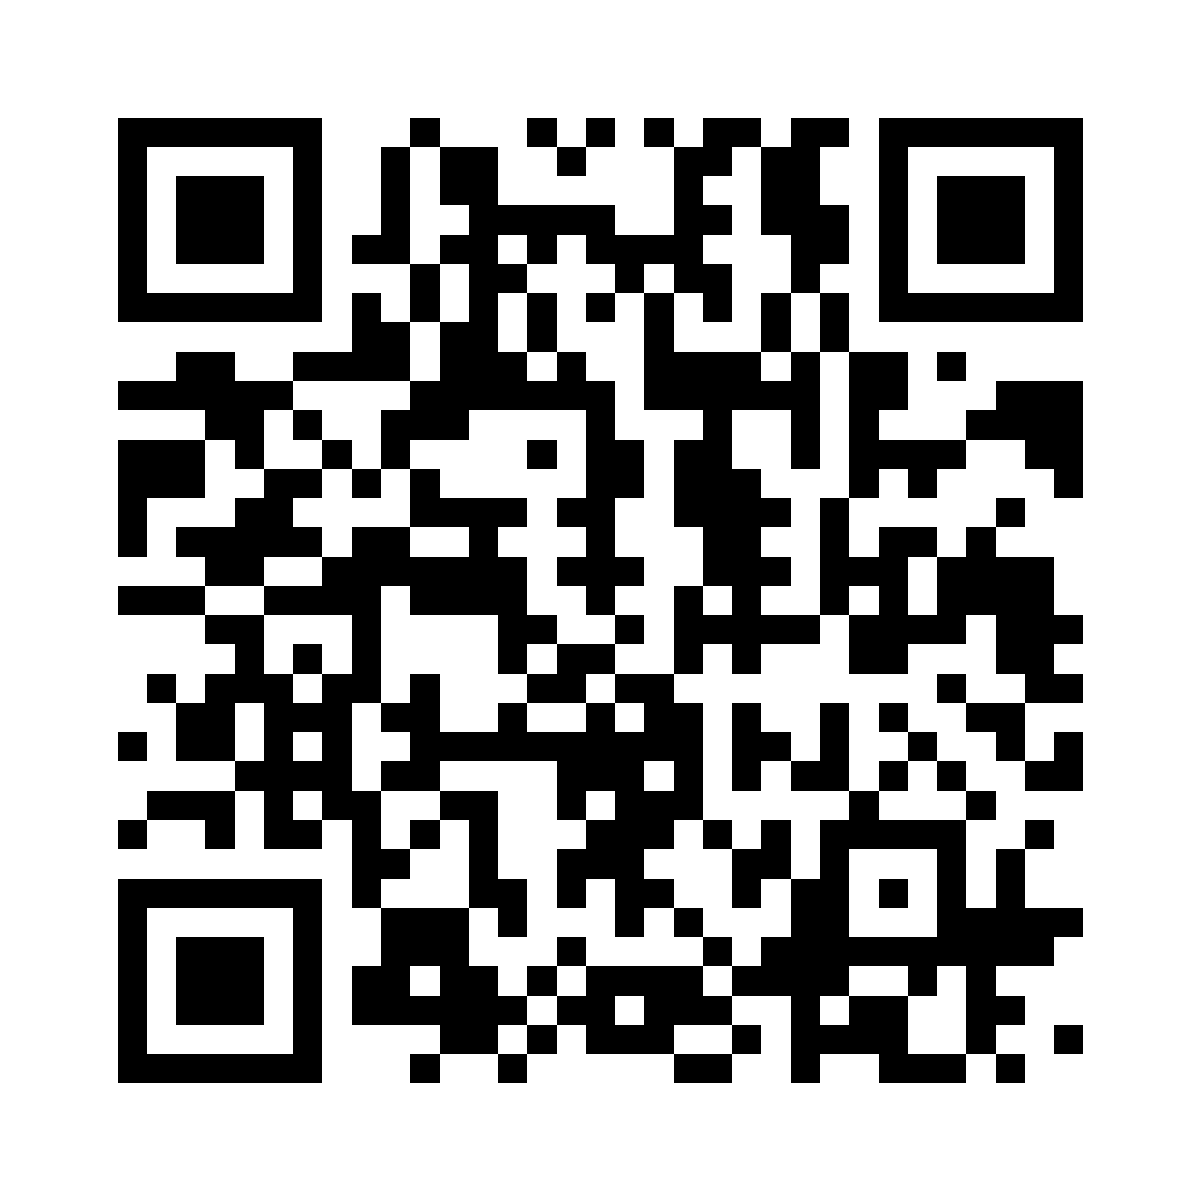
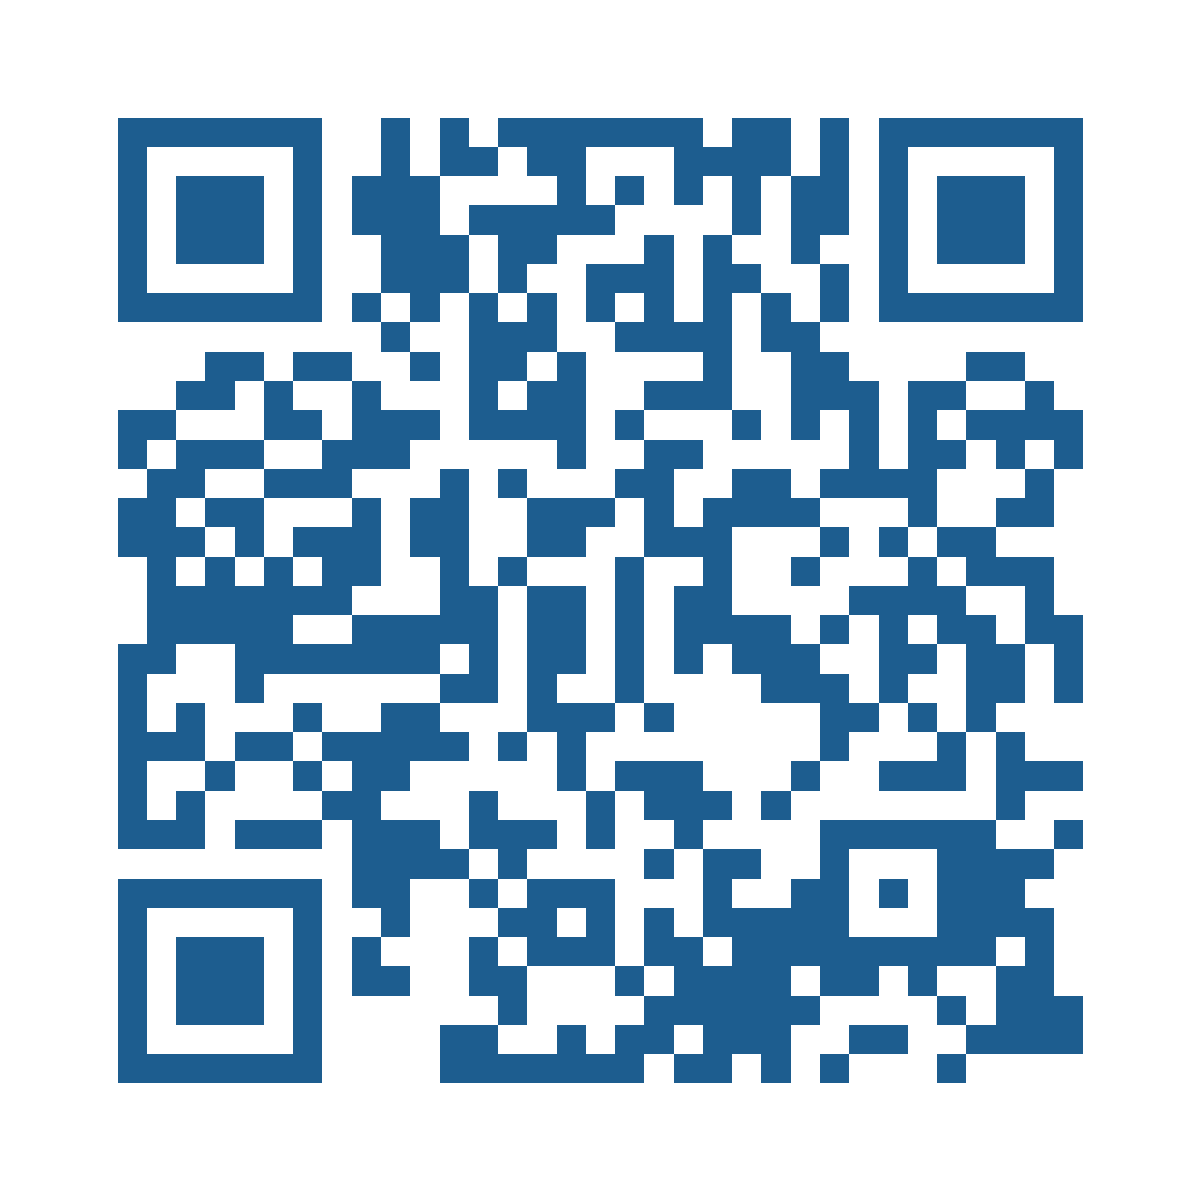
Add files via upload

diff --git a/index.html b/index.html
@@ -5,7 +5,7 @@
     <meta name="viewport" content="width=device-width, initial-scale=1" />
     <meta name="theme-color" content="#F6F8FB" />
     <meta name="description" content="贾钦基，岩土工程博士，研究方向为岩土工程不确定性分析与风险量化评估。" />
-    <link rel="canonical" href="https://jqj.github.io/resume/" />
+    <link rel="canonical" href="https://jqj-1.github.io/resume/" />
     <meta property="og:title" content="贾钦基｜岩土工程博士" />
     <meta property="og:description" content="个人学术与工程履历：教育背景、项目实践、论文成果与博士论文研究。" />
     <meta property="og:type" content="profile" />

diff --git a/README.md b/README.md
@@ -1,17 +1,14 @@
-# 贾钦基个人简历网页
+# 个人简历网页
 
-这是一个不依赖框架的静态网页，可直接部署到 GitHub Pages。
+这是一个可直接部署到 GitHub Pages 的静态网页。
 
-## 发布到 GitHub Pages
+## 部署
 
-1. 在 GitHub 新建一个公开仓库，例如 `resume`。
-2. 将本目录中的文件上传到仓库根目录。
-3. 打开仓库 `Settings → Pages`，选择 `Deploy from a branch`、`main`、`/ (root)`。
-4. 等待部署完成后，网址为：
-   `https://jqj.github.io/resume/`
-5. 二维码文件见 `qrcode-jqj-resume.png`，内容指向上述网址。
+1. 将网页文件上传到仓库根目录。
+2. 在仓库中打开 `Settings → Pages`。
+3. 选择 `Deploy from a branch`、`main`、`/ (root)`。
+4. 保存后等待 GitHub Pages 完成部署。
 
-## 需要本人确认
+网页入口文件为 `index.html`。
 
-- 邮箱：已统一为 `jax@hnu.edu.cn`。
-- 页面内容：已补入 PPT 中适合网页展开的项目、硕士论文成果、在审论文、奖学金、实习与证书信息。
+访问地址：`https://jqj-1.github.io/resume/`
